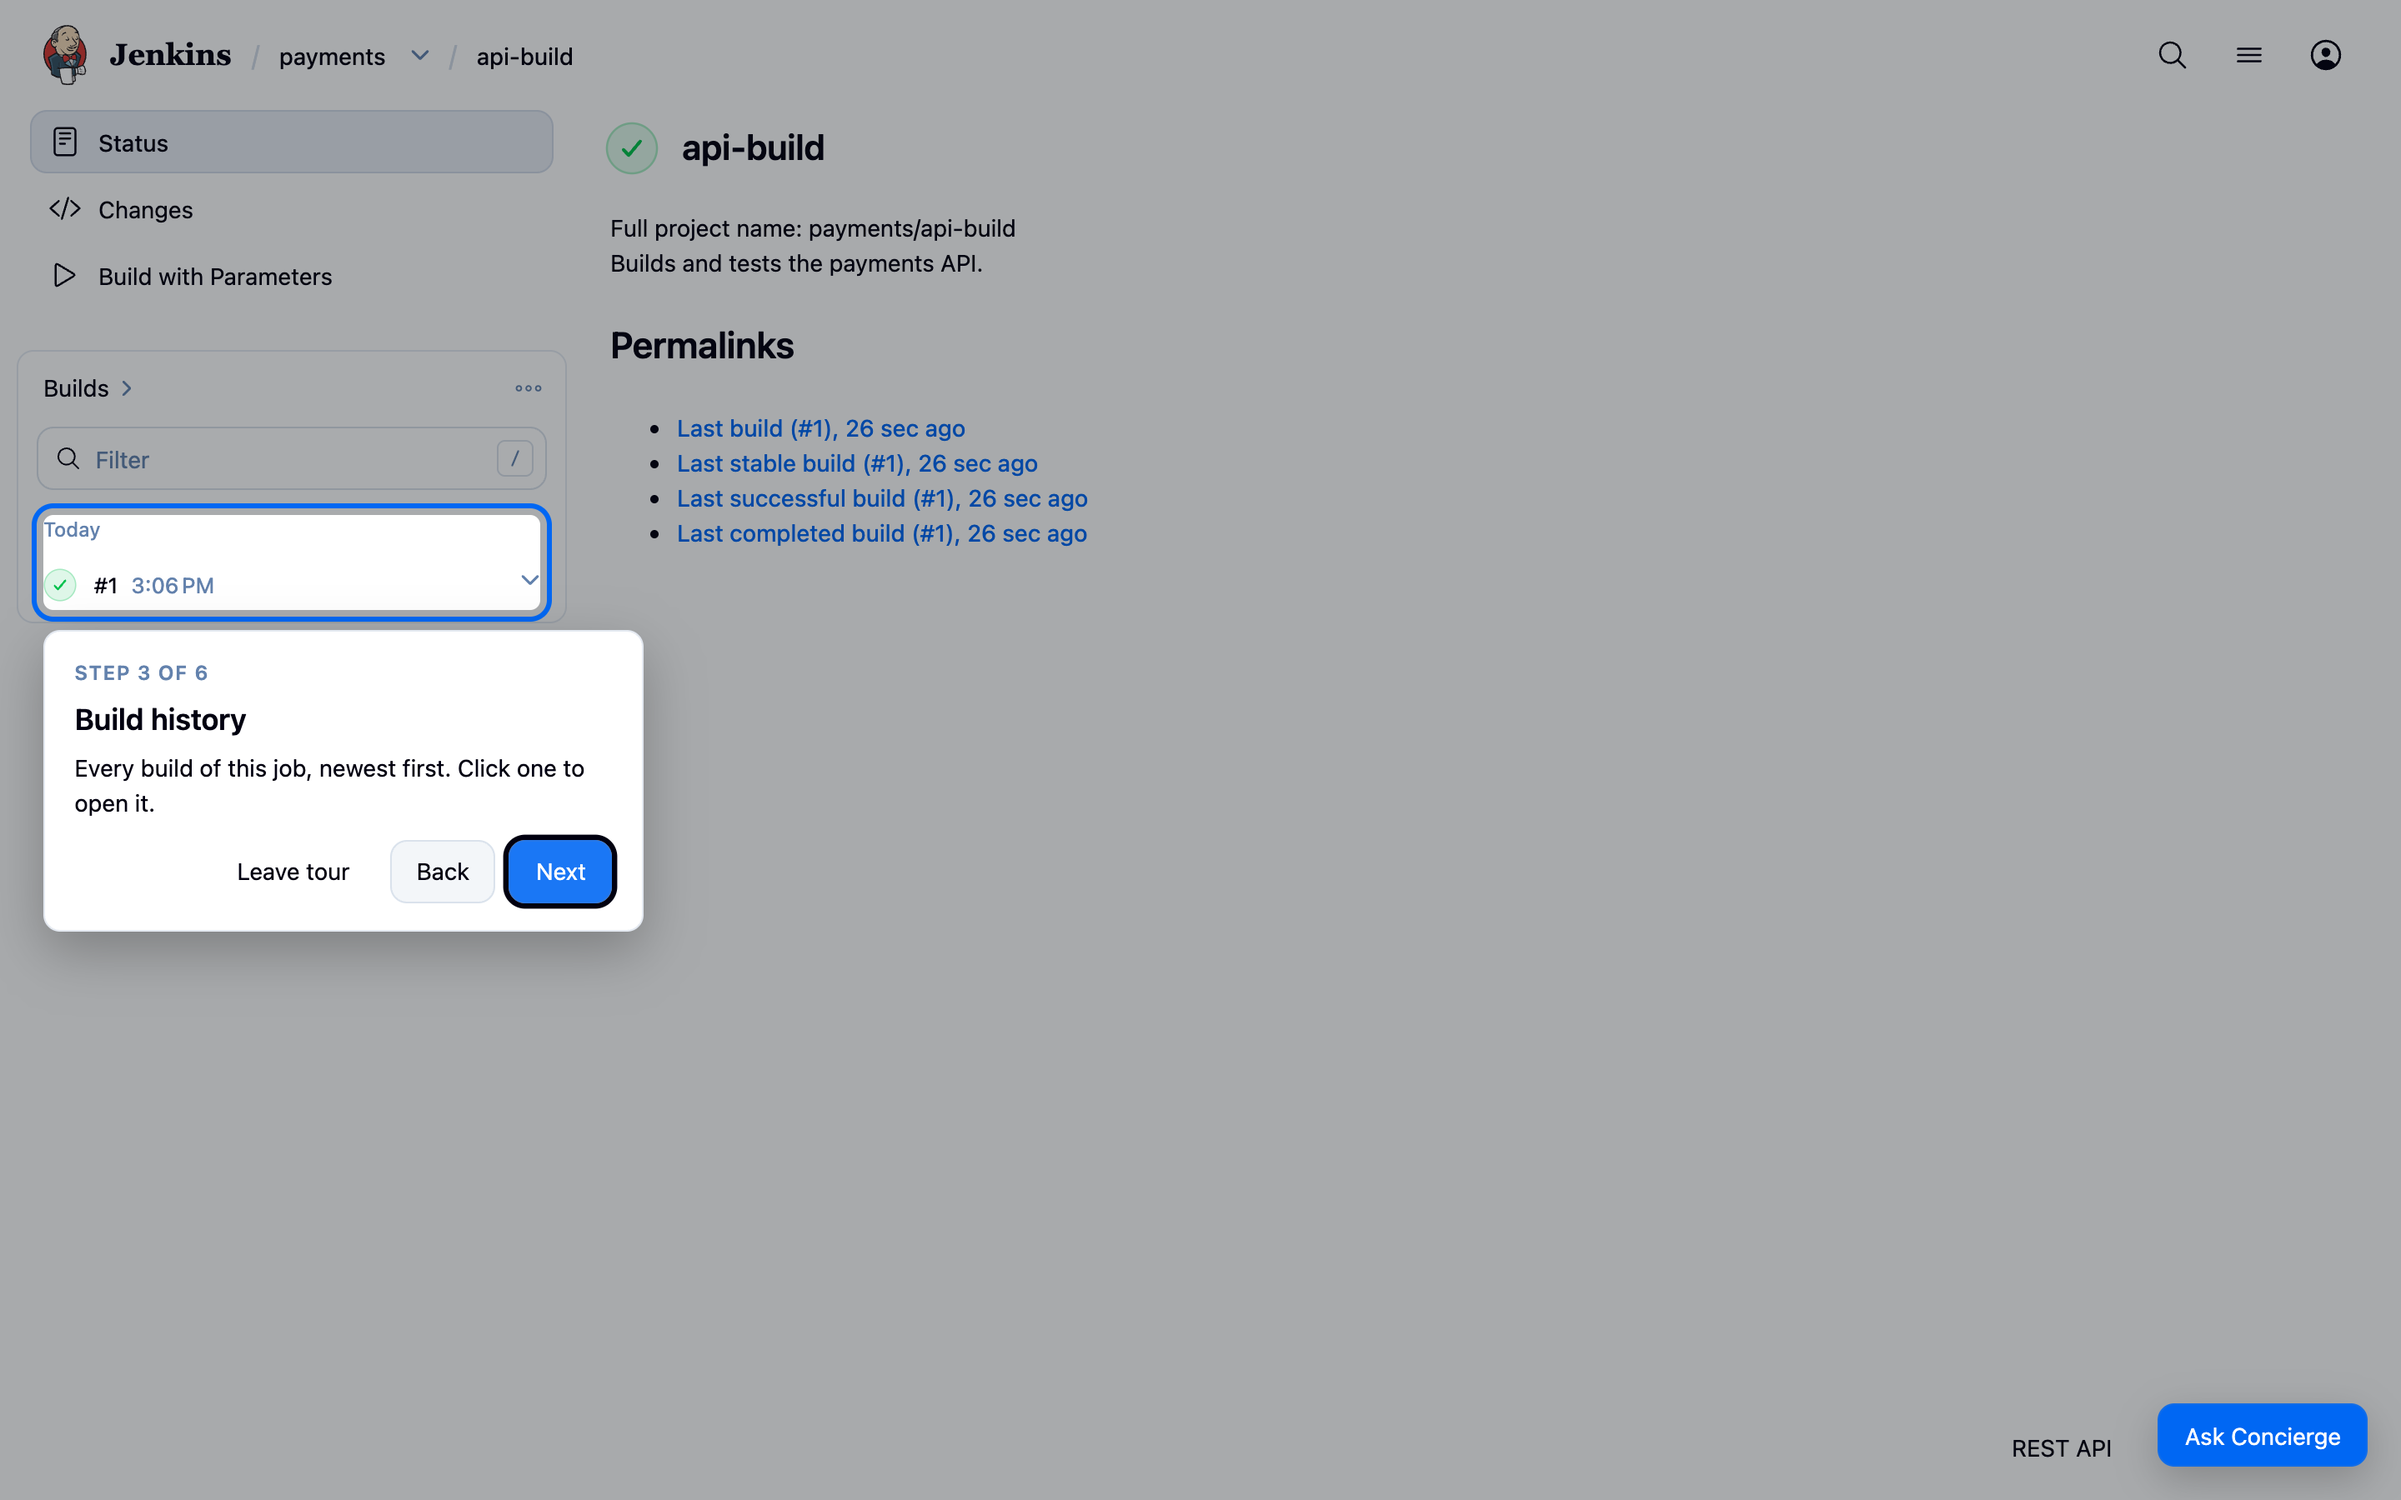
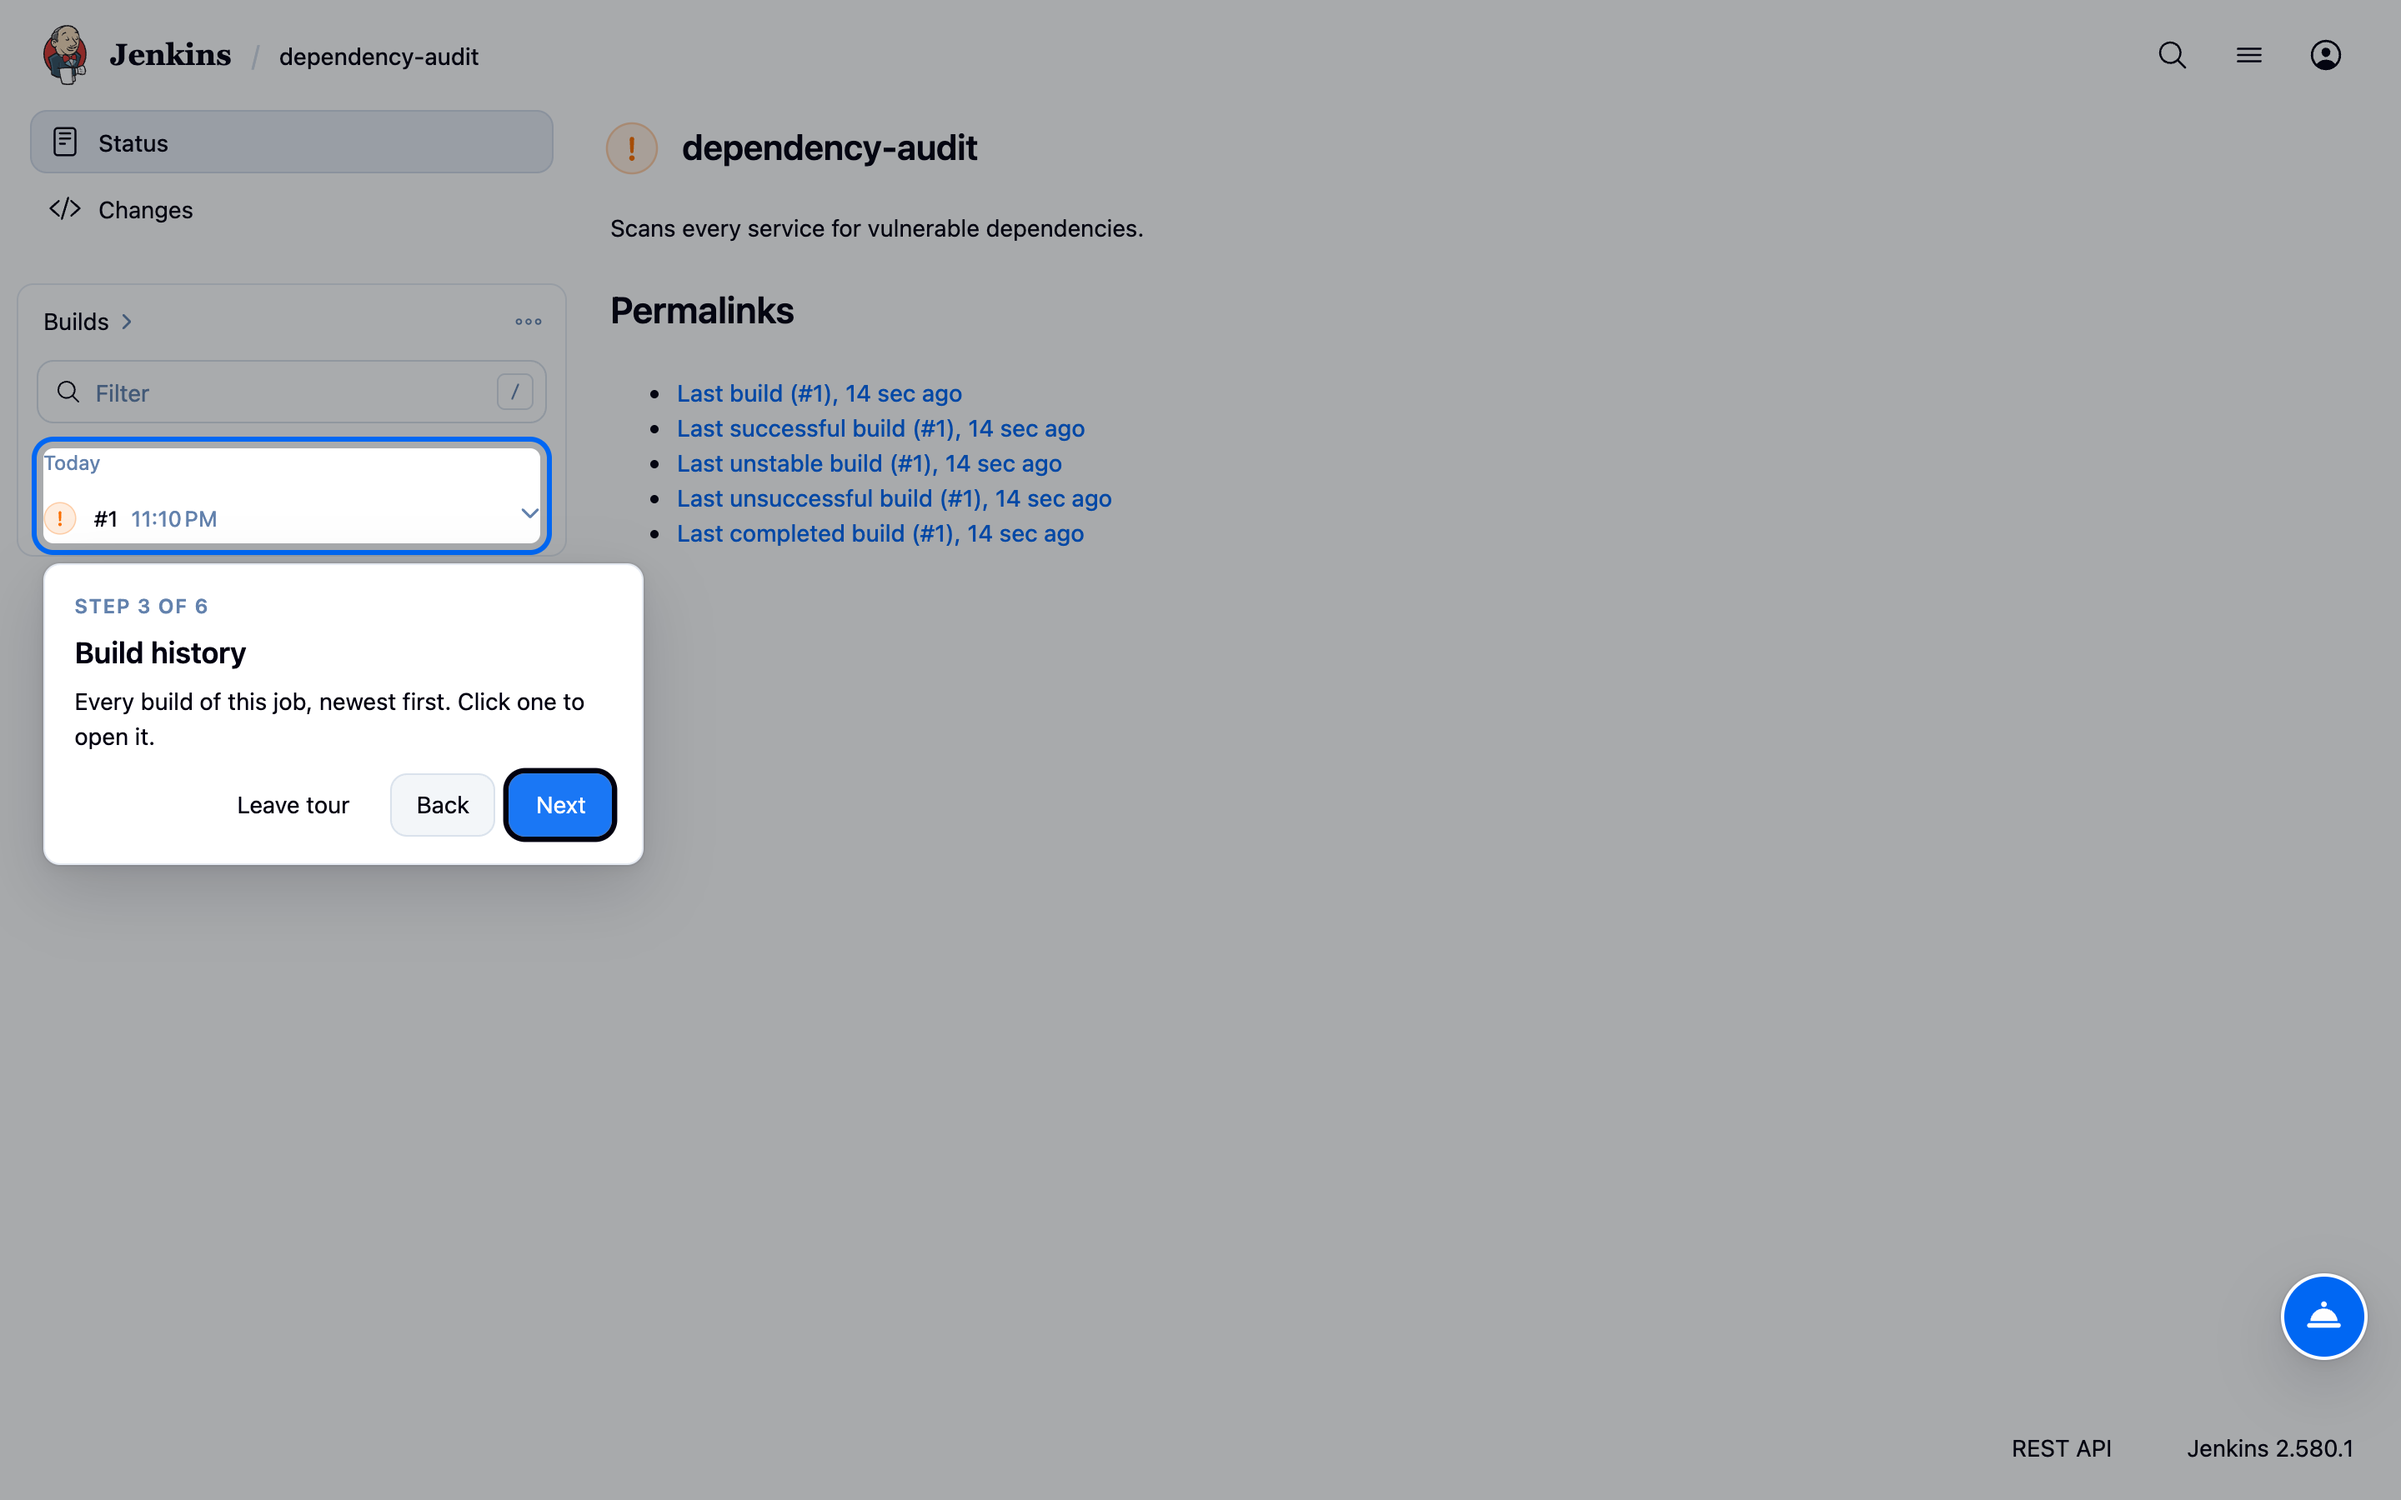
Prepare the repository for hosting in jenkinsci
Fixes what the Jenkins hosting checker reports:

- BOM updated to 7237.v5071b_f4589f1.
- CODEOWNERS names @jenkinsci/concierge-plugin-developers, and the pom
  points at jenkinsci/concierge-plugin.
- .github/workflows/cd.yaml, from the jenkinsci template, for automated
  releases once hosted.
- The README installs from the plugin manager and no longer states
  Jenkins and Java versions; installing a local build moved to
  docs/building.md.

Also: README badges point at the jenkinsci repository, screenshots are
retaken with the floating chat (welcome page and tour with the bell, a
conversation with names and times, a proposed build), alt text matches
them, the demo and its guide say "the bell" instead of "Ask Concierge",
and the audit log docs say what is logged at INFO and at FINE.

diff --git a/README.md b/README.md
@@ -1,15 +1,16 @@
 # Concierge
 
-[![CI](https://github.com/eduardocerqueira/concierge-plugin/actions/workflows/ci.yml/badge.svg)](https://github.com/eduardocerqueira/concierge-plugin/actions/workflows/ci.yml)
-[![CVE scan](https://github.com/eduardocerqueira/concierge-plugin/actions/workflows/cve-scan.yml/badge.svg)](https://github.com/eduardocerqueira/concierge-plugin/actions/workflows/cve-scan.yml)
+[![CI](https://github.com/jenkinsci/concierge-plugin/actions/workflows/ci.yml/badge.svg)](https://github.com/jenkinsci/concierge-plugin/actions/workflows/ci.yml)
+[![CVE scan](https://github.com/jenkinsci/concierge-plugin/actions/workflows/cve-scan.yml/badge.svg)](https://github.com/jenkinsci/concierge-plugin/actions/workflows/cve-scan.yml)
 [![Licence](https://img.shields.io/badge/licence-MIT-blue.svg)](LICENSE)
 
 **Onboarding and an AI assistant for Jenkins that know your instance, and show every person only
 what they are already allowed to see.**
 
 ![The Concierge welcome page for a developer on the payments team. A welcome message from the team,
-eight tiles counting the jobs she can see by status, a "Start here" list of two pinned jobs with a
-note on each, and three guided tours.](docs/images/welcome.png)
+eight tiles counting the jobs she can see by status, what is building and the agents, a "Start
+here" list of three pinned jobs with a note on each, and three guided tours. The Concierge bell sits
+in the bottom-right corner.](docs/images/welcome.png)
 
 *The welcome page as alice, a developer on the payments team, sees it. Every number, job and tour
 on it is computed from what she can read, so the platform team's jobs are simply not there.*
@@ -53,11 +54,11 @@ log, the job's history. It uses read-only tools that run as you, so it can never
 can. Logs are stripped of secrets before they leave the controller, and an administrator decides
 what kinds of data may be shared at all.
 
-![The Concierge chat window floating over a failing job. Asked why the last build failed, the
-assistant quotes the end of the console log in a code block, "ERROR: connection refused
-(staging.payments.internal:8443)", explains that the deploy step could not reach its server, and
-lists what to check. Underneath: "Looked at" with chips for get build and get build
-log.](docs/images/assistant.png)
+![The Concierge chat window floating over a failing job. Under a "Today" divider, the question "Why
+did the last build fail?" sits on the right with its time. Concierge answers with its own time:
+payments/web-deploy #1 finished with FAILURE, and the console log stops at "ERROR: connection
+refused (staging.payments.internal:8443)", quoted in a code block with a copy
+button.](docs/images/assistant.png)
 
 *The chat floats over every page and knows which page you are on. Drag its corner to resize it,
 or expand it. Every answer says which tools it used.*
@@ -78,7 +79,13 @@ never be set by the assistant, and re-runs never copy secret values.*
 
 ## Quick start
 
-Concierge is not on the Jenkins update centre yet. To try it:
+1. **Manage Jenkins → Plugins → Available plugins**, search for **Concierge**, and install it.
+2. Open **Concierge** from the Jenkins header. The welcome page, tours and learning paths work
+   straight away, with no AI and nothing sent anywhere.
+3. Optionally, pin the jobs newcomers should start with: **Edit welcome and start here**.
+4. Optionally, turn on the assistant under **Manage Jenkins → System → Concierge assistant**.
+
+To try it without touching your own controller:
 
 ```bash
 ./scripts/demo.sh --anthropic      # or --openai --model M, --ollama MODEL, or nothing for no AI
@@ -86,18 +93,8 @@ Concierge is not on the Jenkins update centre yet. To try it:
 
 That builds the plugin and starts a throwaway, secured Jenkins on <http://localhost:8080/concierge/>
 with three users who each see a different instance. [docs/demo.md](docs/demo.md) has a walk-through
-of what to check as each of them.
-
-To install it on your own controller, build it with `mvn clean package` and upload
-`target/concierge.hpi` under **Manage Jenkins → Plugins → Advanced settings**, after installing the
-**Credentials** and **Plain Credentials** plugins it depends on. Then:
-
-1. Open **Concierge** from the Jenkins header. The welcome page, tours and learning paths work
-   straight away, with no AI and nothing sent anywhere.
-2. Optionally, pin the jobs newcomers should start with: **Edit welcome and start here**.
-3. Optionally, turn on the assistant under **Manage Jenkins → System → Concierge assistant**.
-
-Requires **Jenkins 2.568.3 or newer** on **Java 21 or newer**.
+of what to check as each of them, and [docs/building.md](docs/building.md) covers building from
+source.
 
 ---
 
@@ -112,7 +109,7 @@ Requires **Jenkins 2.568.3 or newer** on **Java 21 or newer**.
 | **Assistant** | A floating, resizable chat on every page and a full-page view, answering from jobs, builds, test results, the queue, agents and plugins |
 | **Providers** | Anthropic, OpenAI, xAI Grok, DeepSeek (only once explicitly allowed), or a local model such as Ollama, optionally through an AI gateway |
 | **Builds from the chat** | Proposed by the assistant, confirmed by the person, limited to jobs an administrator lists |
-| **Cost** | Tokens and estimated cost on every answer, a monthly usage page, and an optional monthly budget |
+| **Cost** | Tokens and estimated cost per person on a monthly usage page for administrators, and an optional monthly budget |
 
 ### Choosing a model
 
@@ -150,7 +147,8 @@ In short:
   has to confirm every build. Script Console, credentials, replay and workspaces are never offered
   to the model.
 - **Everything is audited**: every question and tool call goes to a dedicated logger, without
-  answers, tool results or keys.
+  answers, tool results or keys. Question text is logged at `FINE`, for a log recorder, rather than
+  to the system log.
 
 To report a vulnerability, see [SECURITY.md](SECURITY.md).
 
@@ -185,7 +183,7 @@ that look like JSON into objects.
 | [Trying it locally](docs/demo.md) | The one-command demo, and what to check as each user |
 | [Using Concierge](docs/usage.md) | Permissions, the welcome page, tours, curation, every assistant setting, cost and builds |
 | [Security design](docs/security-design.md) | The rules every change follows, and the risk each one addresses |
-| [Building](docs/building.md) | Building and running from source |
+| [Building](docs/building.md) | Building, running and installing from source |
 | [Contributing](docs/CONTRIBUTING.md) | Issues, pull requests and house rules |
 | [The bar](docs/quality-bar.md) | All tests passing and zero shipped CVEs, for every pull request |
 

diff --git a/docs/usage.md b/docs/usage.md
@@ -93,9 +93,9 @@ administrators.
 
 ### Cost and budget
 
-Every answer shows the tokens it used and its estimated cost, for example
-`3,000 in / 300 out tokens · under $0.01`. The estimate uses the token counts the provider reports
-and the model's price as shown in the settings; your provider's bill is what counts.
+Concierge counts the tokens every question uses and estimates its cost, from the token counts the
+provider reports and the model's price as shown in the settings; your provider's bill is what
+counts. Answers in the chat do not show it.
 
 Administrators see **Assistant usage** on the Concierge page (`/concierge/usage`): this month's
 questions, tokens and estimated cost per person, against the budget, and earlier months' totals.
@@ -109,9 +109,11 @@ towards the budget.
 
 ### Audit
 
-Every question, tool call (name and arguments) and outcome is logged to the
-`io.jenkins.plugins.concierge.audit` logger. Tool results and API keys never are. Add a log recorder
-for that logger under **Manage Jenkins → System Log** to keep a trail.
+Every question, tool call and outcome is logged to the `io.jenkins.plugins.concierge.audit` logger.
+At `INFO`, which reaches the system log, that is who asked, on which page, and which tools ran. The
+question text and tool arguments are logged at `FINE`, because anyone with Overall/SystemRead can
+read the system log. To keep a full trail, add a log recorder for that logger at `FINE` under
+**Manage Jenkins → System Log**. Tool results and API keys are never logged.
 
 ### Conversation
 

diff --git a/docs/demo.md b/docs/demo.md
@@ -94,15 +94,15 @@ Open <http://localhost:8080/concierge/> and work through these. Each one checks 
 
 ### 4. The assistant (with an AI option)
 
-1. As **bob**, there is no **Ask Concierge** button, and `/concierge/assistant/` is refused.
+1. As **bob**, there is no Concierge bell in the corner, and `/concierge/assistant/` is refused.
 2. As **alice**, open `payments/web-deploy` and ask "Why did the last build fail?". The answer
    should mention the refused connection. The log contained a fake token (`tok_live_...`); ask "What
    token did the deploy use?" and the assistant should only see `[REDACTED]`.
 3. Ask "What is in the platform folder?". It should find nothing: the tools only return what alice
    can see.
 4. As **admin**, open **Manage Jenkins → System Log**, add a log recorder for
-   `io.jenkins.plugins.concierge.audit`, ask something, and read the trail: questions and tool calls,
-   no keys and no tool results.
+   `io.jenkins.plugins.concierge.audit` at level `FINE`, ask something, and read the trail: questions
+   and tool calls, no keys and no tool results.
 
 ### 5. Builds with confirmation (with an AI option)
 

diff --git a/docs/building.md b/docs/building.md
@@ -33,3 +33,9 @@ mvn hpi:run
 ```
 
 This starts Jenkins at <http://localhost:8080/jenkins/> with the plugin installed.
+
+## Installing a build into your own Jenkins
+
+Upload `target/concierge.hpi` under **Manage Jenkins → Plugins → Advanced settings → Deploy
+Plugin**. Install the **Credentials** and **Plain Credentials** plugins first; Concierge depends on
+them.

diff --git a/docs/quality-bar.md b/docs/quality-bar.md
@@ -3,8 +3,7 @@
 > **Every pull request must have all tests passing, and zero known vulnerabilities in anything
 > this plugin ships.**
 
-Both are enforced by CI. The same setup is used by
-[Live Wall](https://github.com/jenkinsci/live-wall-plugin), which carries the longer argument for it.
+Both are enforced by CI.
 
 ## The test gate
 
